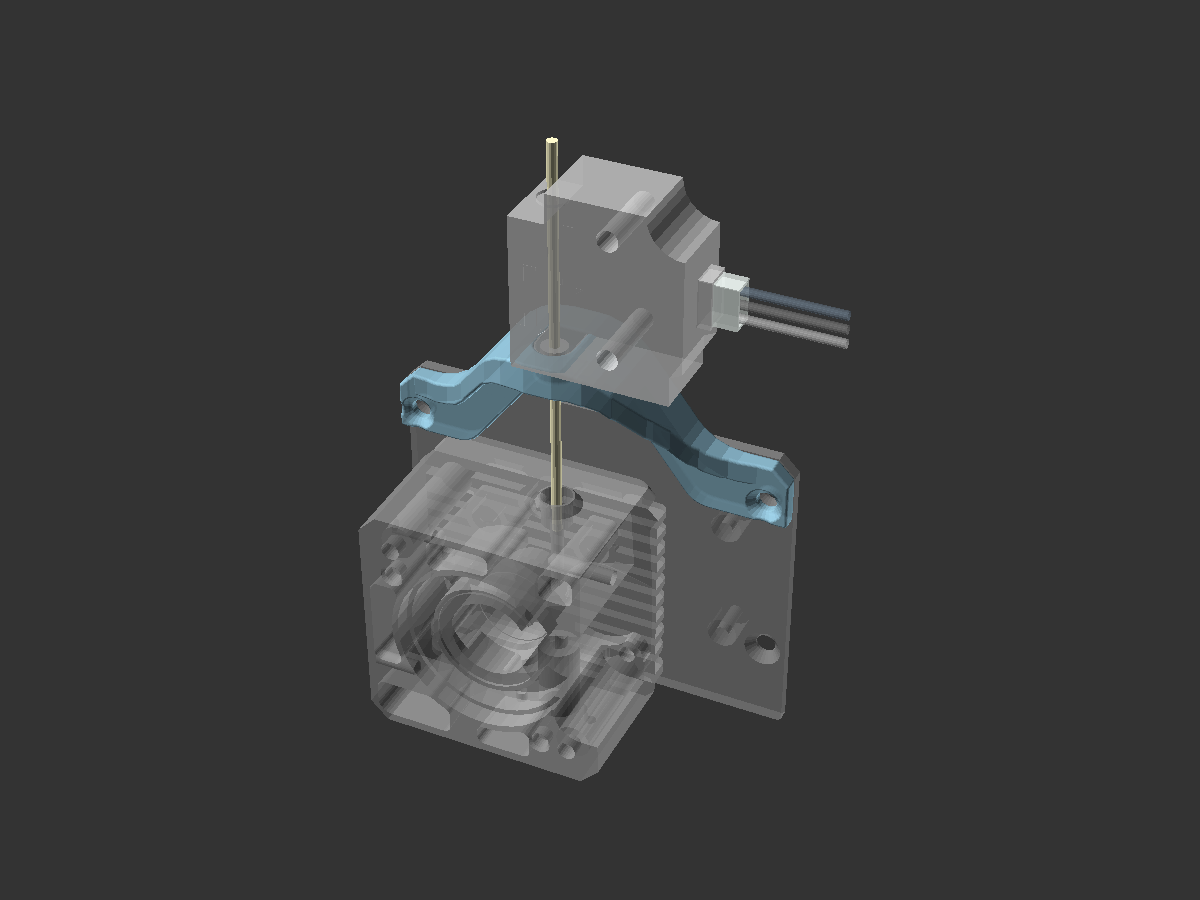
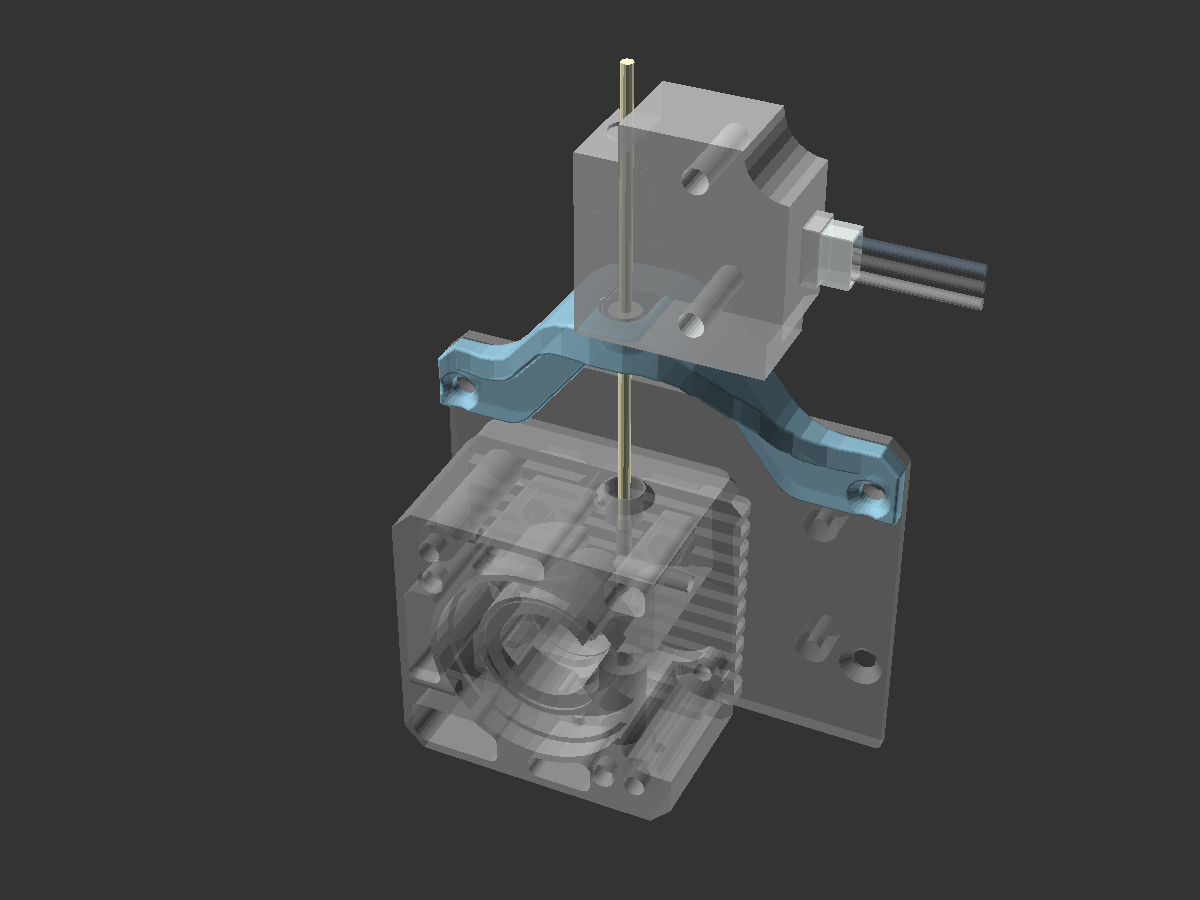
Rework rotation options, add gif demo

Changed region(s): [[0.2775, 0.0622, 0.8325, 0.9333]]

diff --git a/sovol-sv06-plus/extruder-runout-mount/README.md b/sovol-sv06-plus/extruder-runout-mount/README.md
@@ -5,7 +5,7 @@
 An extruder mount for the filament runout sensor on the Sovol SV06 Plus
 
 ![Model render](images/readme/render-part.png)
-![Installed model preview render](images/readme/render-model-preview.png)
+![Installed model preview animation](images/readme/demo-rotation.gif)
 
 ## License
 
